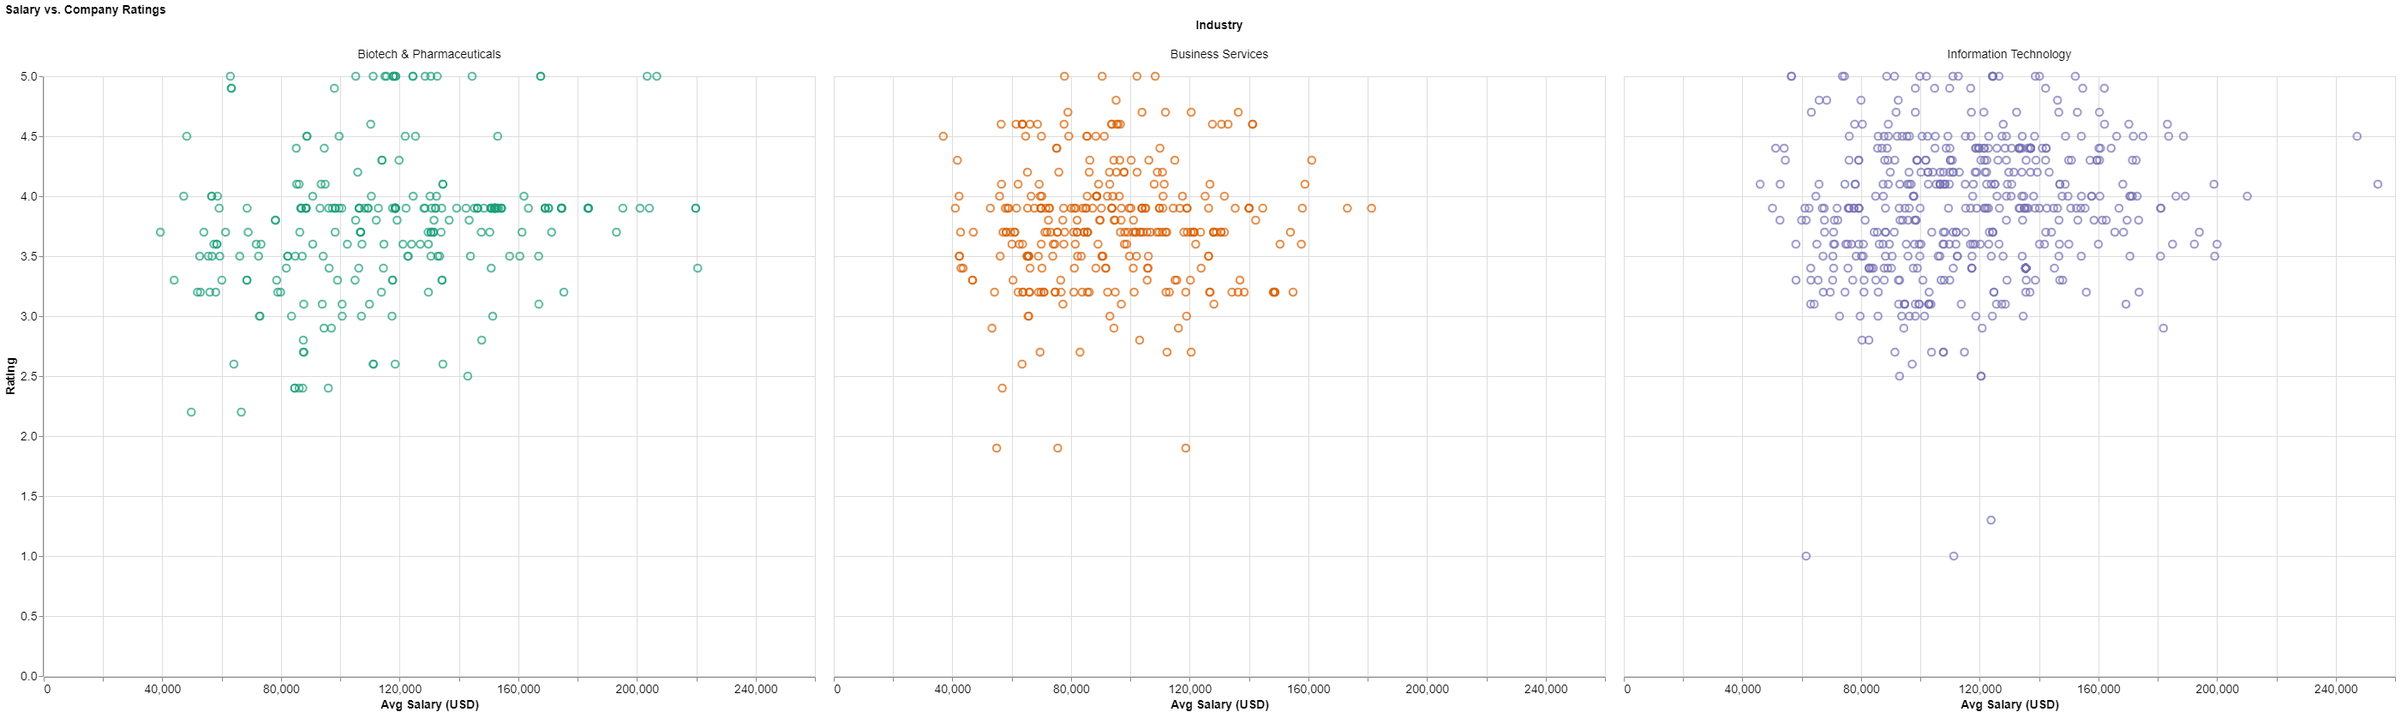
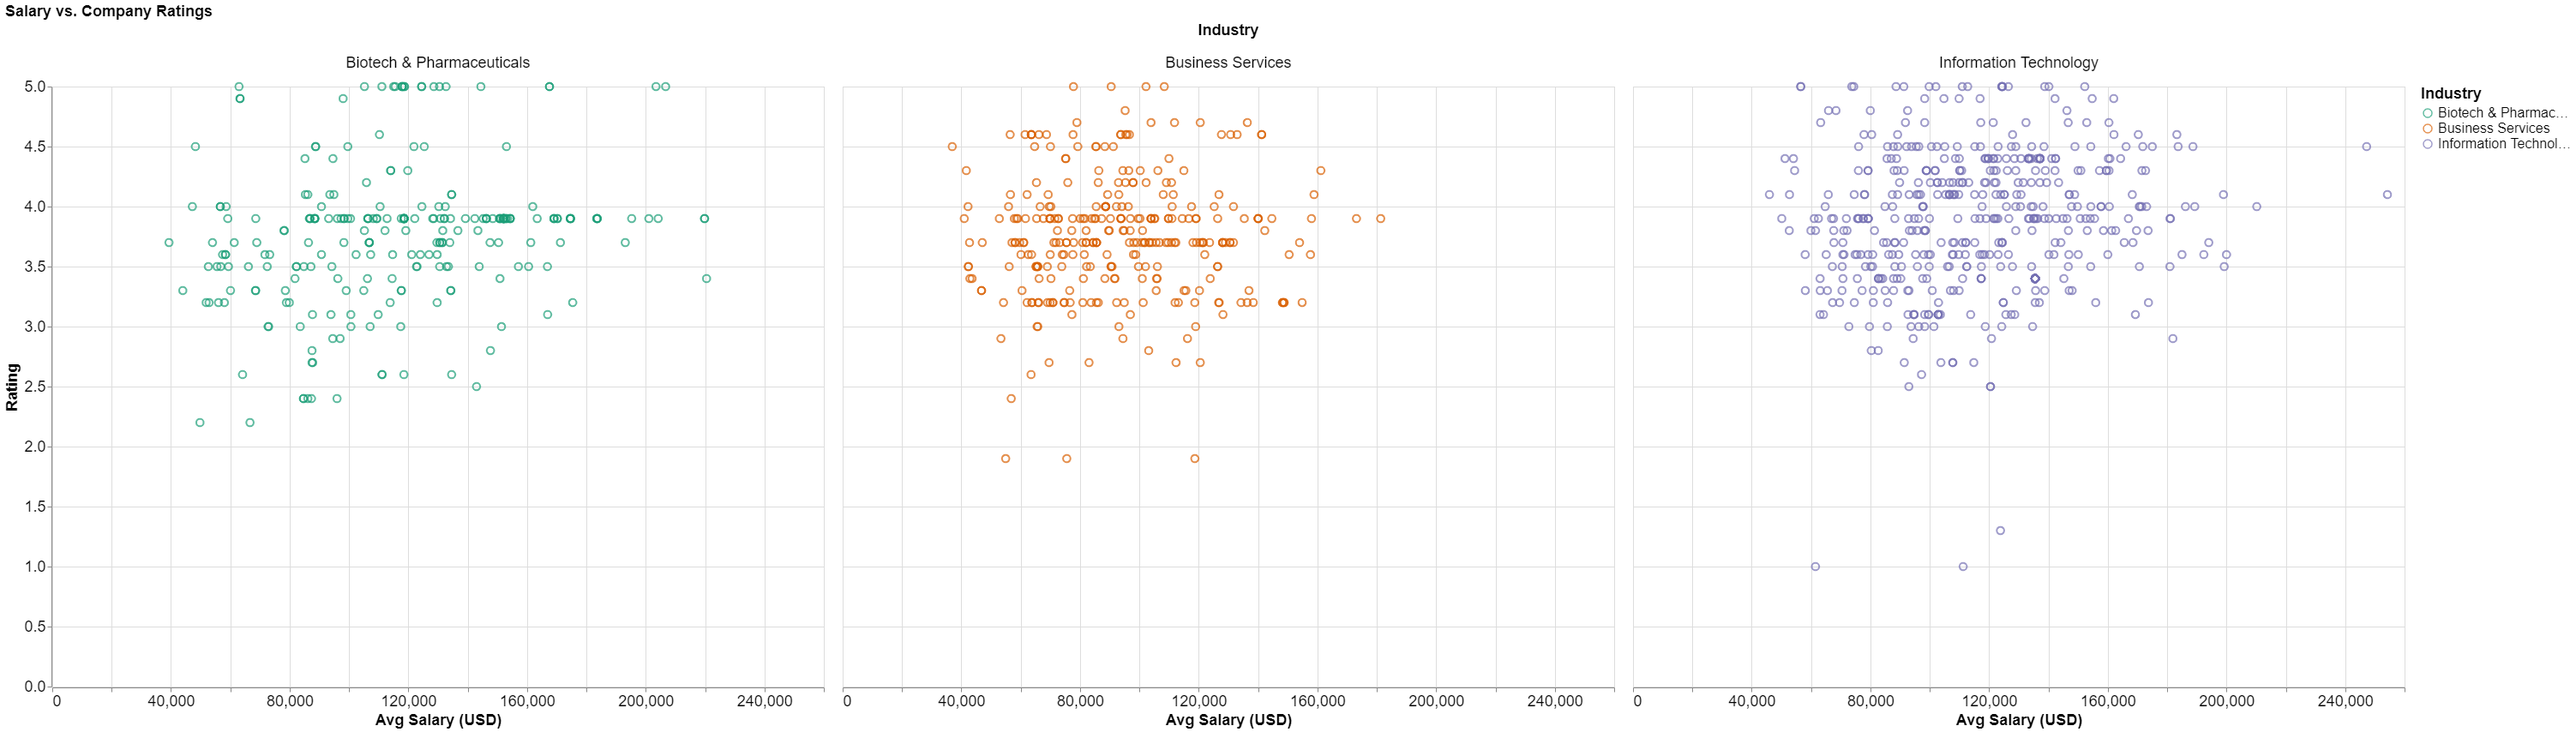
updating some of the images in ploits

diff --git a/Source_Code/scatterplots.py b/Source_Code/scatterplots.py
@@ -34,12 +34,12 @@ time, so to look at the next plot you need to close the tab it rendered on.
 """
 
 ##=================== Salary vs. Ratings Scatterplot by Industry ===================##
-mdict = merge_field('Industry',df_clean)
-df_chart = pd.concat([mdict['Business Services'],mdict['Information Technology'],mdict['Biotech & Pharmaceuticals']],
-                      ignore_index=True)
+# mdict = merge_field('Industry',df_clean)
+# df_chart = pd.concat([mdict['Business Services'],mdict['Information Technology'],mdict['Biotech & Pharmaceuticals']],
+#                       ignore_index=True)
 
-chart = salary_v_rating_scatter(df_chart,'Industry',separate=True)
-chart.show()
+# chart = salary_v_rating_scatter(df_chart,'Industry',separate=True)
+# chart.show()
 
 ##=================== Salary vs. Ratings Scatterplot by Company ===================##
 # df_chart = pd.concat([mdict['Information Technology'], mdict['Finance'], mdict['Business Services'], 
@@ -61,14 +61,19 @@ chart.show()
 
 
 #=================== Salary vs. Listings Scatterplot ===================##
-# # Choose how we want data to be organize
-# mdict = merge_field('Company',df_clean)
+# Choose how we want data to be organize
+mdict = merge_field('Industry',df_clean)
 
-# # Choose what entries we specifcally want to plot
+# Choose what entries we specifcally want to plot
+# Company
 # df_chart = pd.concat([mdict['Genentech'], mdict['National Debt Relief'], mdict['Leidos'], mdict['BAE Systems USA'],
 #                       mdict['Facebook'], mdict['Amazon'], mdict['Booz Allen Hamilton']],
 #                     ignore_index=True)
+# Inudstry
+df_chart = pd.concat([mdict['Information Technology'], mdict['Finance'], mdict['Business Services'], 
+                      mdict['Aerospace & Defense'], mdict['Biotech & Pharmaceuticals']],
+                      ignore_index=True)
 
-# # Create and display plot
-# chart = salary_v_listings_scatter(df_chart, 'Company')
-# chart.show()
+# Create and display plot
+chart = salary_v_listings_scatter(df_chart, 'Industry')
+chart.show()

diff --git a/Source_Code/project_functions.py b/Source_Code/project_functions.py
@@ -362,11 +362,11 @@ def salary_v_rating_scatter(df_chart, legend, separate=False):
         chart = df_chart.mark_point().encode(x=alt.X('Avg_Salary', title='Avg Salary (USD)'),y='Rating',color=legend)
     
     chart = chart.properties(title = 'Salary vs. Company Ratings',height=700,width=900)
-    chart = chart.configure_header(titleFontSize=14,labelFontSize=14)
-    chart = chart.configure_axis(titleFontSize=14,labelFontSize=14,tickCount=10)
-    chart = chart.configure_title(fontSize=14)
+    chart = chart.configure_header(titleFontSize=18,labelFontSize=18)
+    chart = chart.configure_axis(titleFontSize=18,labelFontSize=18,tickCount=10)
+    chart = chart.configure_title(fontSize=18)
     chart = chart.configure_point(size=75)
-    chart = chart.configure_legend(titleFontSize=14,labelFontSize=12)
+    chart = chart.configure_legend(titleFontSize=18,labelFontSize=16)
     
     return chart
 
